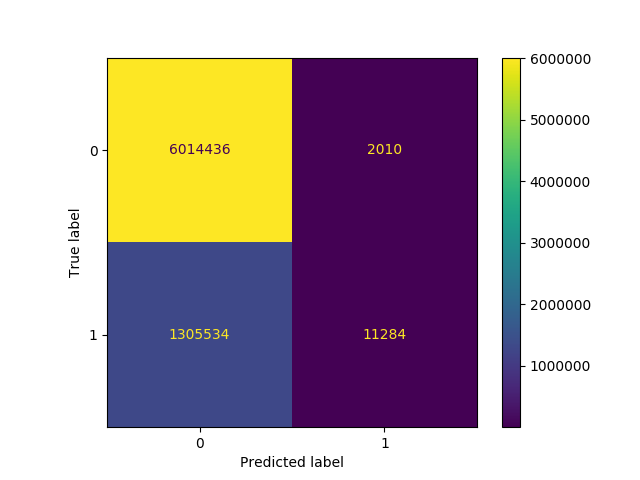
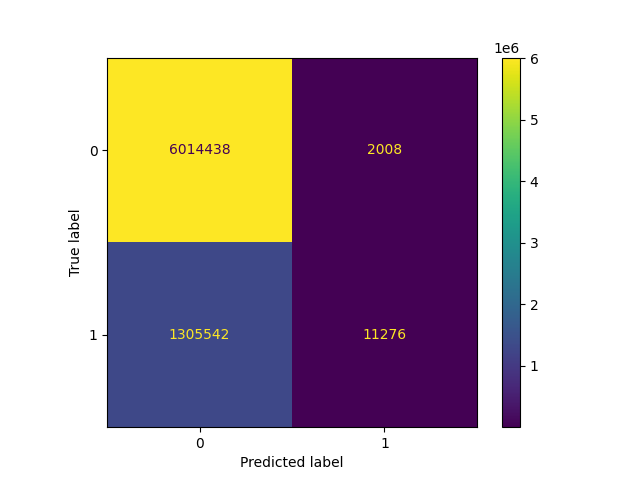
old

diff --git a/toptimize/main_gcnconv4.py b/toptimize/main_gcnconv4.py
@@ -48,6 +48,9 @@ print(f'Is undirected: {data.is_undirected()}')
 gold_Y = F.one_hot(data.y).float()
 gold_A = torch.matmul(gold_Y, gold_Y.T)
 
+print(gold_A)
+#input()
+
 print()
 print('Label Relation')
 print('============================================================')
@@ -196,7 +199,7 @@ for epoch in range(1, 201):
 print('Run', run, 'Val. Acc.', best_val_acc, 'Test Acc.', test_acc)
 
 print("Finished Training", run, '\n')
-input()
+#input()
 
 def plot_tsne(tsne_x, tsne_y, fig_name, label_names=None):
     from sklearn.manifold import TSNE
@@ -235,9 +238,11 @@ input()
 
 val_accs, test_accs = [], []
 
-for run in range(1, 5 + 1):
+for run in range(1, 1000 + 1):
     # denser_edge_index = torch.nonzero(YYT == 1, as_tuple=False)
     # denser_edge_index = denser_edge_index.t().contiguous()
+    # denser_edge_index = denser_edge_index.cuda()
+    # denser_edge_index = data.edge_index.cuda()
 
     class Net(torch.nn.Module):
         def __init__(self):
@@ -278,18 +283,17 @@ for run in range(1, 5 + 1):
         final, logits = model()
 
         task_loss = F.nll_loss(logits[data.train_mask], data.y[data.train_mask])
-        print('Task loss', task_loss)
+        # print('Task loss', task_loss)
 
         link_loss = GCN4Conv.get_link_prediction_loss(model)
-        print('Link loss', link_loss)
+        # print('Link loss', link_loss)
 
         # redundancy_loss = F.mse_loss(final, prev_final, reduction = 'mean')
         redundancy_loss = F.kl_div(logits, prev_final, reduction = 'none', log_target = True).mean()
         #redundancy_loss = torch.distributions.kl.kl_divergence(logits, prev_final).sum(-1)
-        print('Redundancy loss', redundancy_loss)
+        # print('Redundancy loss', redundancy_loss)
 
         total_loss = 1 * task_loss +  1 * link_loss + 10 * redundancy_loss
-        print('Total loss', total_loss)
 
         total_loss.backward()
         optimizer.step()
@@ -308,21 +312,26 @@ for run in range(1, 5 + 1):
     def final_and_yyt_for_supervision():
         model.eval()
         final, logits = model()
-        new_edge = model.conv1.cache["new_edge"]
-        new_edge = new_edge[:,:]
-        print('new_edge', new_edge, new_edge.shape)
-        new_edge_temp1 = new_edge[0].unsqueeze(0)
-        new_edge_temp2 = new_edge[1].unsqueeze(0)
-        new_edge_homo = torch.cat((new_edge_temp2, new_edge_temp1), dim=0)
-        print('new_edge_homo', new_edge_homo, new_edge_homo.shape)
-        data.edge_index = torch.cat([data.edge_index, new_edge], dim=1)
-        print('data.num_edges', data.num_edges)
-        data.edge_index = torch.cat([data.edge_index, new_edge_homo], dim=1)
-        print('data.num_edges', data.num_edges)
-        pred = logits.max(1)[1]
-        Y = F.one_hot(pred).float()
-        YYT = torch.matmul(Y, Y.T)
-        return logits, YYT, final
+        if model.conv1.cache["new_edge"] != None:
+            new_edge = model.conv1.cache["new_edge"]
+            new_edge = new_edge[:,:]
+            print('new_edge', new_edge, new_edge.shape)
+
+            new_edge_temp1 = new_edge[0].unsqueeze(0)
+            new_edge_temp2 = new_edge[1].unsqueeze(0)
+            new_edge_homo = torch.cat((new_edge_temp2, new_edge_temp1), dim=0)
+            print('new_edge_homo', new_edge_homo, new_edge_homo.shape)
+            print('data.num_edges(before concat)', data.num_edges)
+            data.edge_index = torch.cat([data.edge_index, new_edge], dim=1)
+            print('data.num_edges', data.num_edges)
+            data.edge_index = torch.cat([data.edge_index, new_edge_homo], dim=1)
+            print('data.num_edges', data.num_edges)
+            pred = logits.max(1)[1]
+            Y = F.one_hot(pred).float()
+            YYT = torch.matmul(Y, Y.T)
+            return logits, YYT, final, 1
+        else:
+            return 0, 0, 0, 0
     
     print("Start Training", run)
     print('===========================================================================================================')
@@ -336,24 +345,27 @@ for run in range(1, 5 + 1):
         log = 'Epoch: {:03d}, Train: {:.4f}, Val: {:.4f}, Test: {:.4f}'
         print(log.format(epoch, train_acc, best_val_acc, test_acc))
     print('Run', run, 'Val. Acc.', best_val_acc, 'Test Acc.', test_acc)
-    input()
+    #input()
 
     val_accs.append(best_val_acc)
     test_accs.append(test_acc)
 
     print("Finished Training", run, '\n')
 
-    prev_final, YYT, final_x = final_and_yyt_for_supervision()
+    prev_final, YYT, final_x, new_edge = final_and_yyt_for_supervision()
     A = to_dense_adj(data.edge_index)[0]
     A[A>1] = 1
-    # with open('newA_' + str(run) + '.pickle', 'wb') as f:
-    #     pickle.dump(A, f)
     A.fill_diagonal_(1)
     print('A', A, A.shape)
     # print('ok?', torch.all(A==1 or A==0))
-    # compare_topology(A, gold_A, cm_filename='main'+str(run))
+    if new_edge == 0 or run == 100 or run == 200 or run == 300 or run == 400 or run == 500 or run == 600 or run == 700 or run == 800 or run == 900 or run == 1000:
+        with open('newA_' + str(run) + '.pickle', 'wb') as f:
+            pickle.dump(A, f)
+        compare_topology(A, gold_A, cm_filename='main'+str(run))
+        print("@@@@@@@@@@@@@@FINISH THE TRAIN@@@@@@@@@@@@@@@@@@@@")
+        # break
     # plot_tsne(final_x, data.y, 'tsne_'+str(run)+'.png')
-    input()
+    #input()
 
 # Analytics
 print('Task Loss + Link Prediction Loss')

diff --git a/toptimize/tenet.py b/toptimize/tenet.py
@@ -37,7 +37,7 @@ if args.use_gdc:
                                            dim=0), exact=True)
     data = gdc(data)
 
-seed = 0
+seed = 10
 run = 0
 class Net(torch.nn.Module):
     def __init__(self):
@@ -161,14 +161,14 @@ for run in range(1, 5 + 1):
     optimizer = torch.optim.Adam([
         dict(params=model.conv1.parameters(), weight_decay=5e-4),
         dict(params=model.conv2.parameters(), weight_decay=0),
-        dict(params=model.tenet1.parameters(), weight_decay=5e-4),
+        dict(params=model.tenet1.parameters(), weight_decay=5e-4)
         # dict(params=model.tenet2.parameters(), weight_decay=5e-4),
     ], lr=0.01)
-    input('Model Loading'+str('='*40))
-    print('Model\n', model, '\nOptimizer\n', optimizer)
-    print('Model Parameterers')
-    for name, param in model.named_parameters():
-        print(name, param, 'grad', param.requires_grad)
+    # input('Model Loading'+str('='*40))
+    # print('Model\n', model, '\nOptimizer\n', optimizer)
+    # print('Model Parameterers')
+    # for name, param in model.named_parameters():
+    #     print(name, param, 'grad', param.requires_grad)
 
     def train():
         model.train()
@@ -228,14 +228,14 @@ for run in range(1, 5 + 1):
     # TODO here make new topology based on the infer
 
     A_temp = to_dense_adj(data.edge_index)[0]
-    A_temp.fill_diagonal_(1)
+    # A_temp.fill_diagonal_(1)
     A_temp[A_temp>1] = 1
     print('A difference', torch.where(A != A_temp), len(torch.where(A!=A_temp)[0]), len(torch.where(A!=A_temp)[1]))
     A = A_temp
 
-    compare_topology(A_temp, data, cm_filename='main'+str(run))
-    plot_tsne(prev_x, data.y, 'tsne_gold.png')
-    plot_sorted_topology_with_gold_topology(A_temp, gold_A, data, 'A_sorted_original_with_gold_'+str(run)+'.png', sorting=True)
+    # compare_topology(A_temp, data, cm_filename='main'+str(run))
+    # plot_tsne(prev_x, data.y, 'tsne_gold.png')
+    # plot_sorted_topology_with_gold_topology(A_temp, gold_A, data, 'A_sorted_original_with_gold_'+str(run)+'.png', sorting=True)
 
 # Analytics
 print('Analytics')

diff --git a/toptimize/test_special_A.py b/toptimize/test_special_A.py
@@ -100,12 +100,12 @@ def compare_topology(pred_A, gold_A, cm_filename='confusion_matrix_display'):
 
 # data.edge_index = edge_index.t().contiguous()
 
-with open('newA_5.pickle', 'rb') as f:
+with open('newA_300.pickle', 'rb') as f:
      A_add_TP = pickle.load(f)
 
-# A_add_TP.fill_diagonal_(1)
+# # A_add_TP.fill_diagonal_(1)
 
-# compare_topology(A_add_TP, gold_A, cm_filename='newA_1')
+# # compare_topology(A_add_TP, gold_A, cm_filename='newA_1')
 
 edge_index = torch.nonzero(A_add_TP == 1, as_tuple=False)
 data.edge_index = edge_index.t().contiguous()
@@ -145,7 +145,7 @@ def test():
 
 best_val_acc = test_acc = 0
 val_accs, test_accs = [], []
-for i, run in enumerate(range(5)):
+for i, run in enumerate(range(20)):
     device = torch.device('cuda' if torch.cuda.is_available() else 'cpu')
     model, data = Net().to(device), data.to(device)
     optimizer = torch.optim.Adam([
